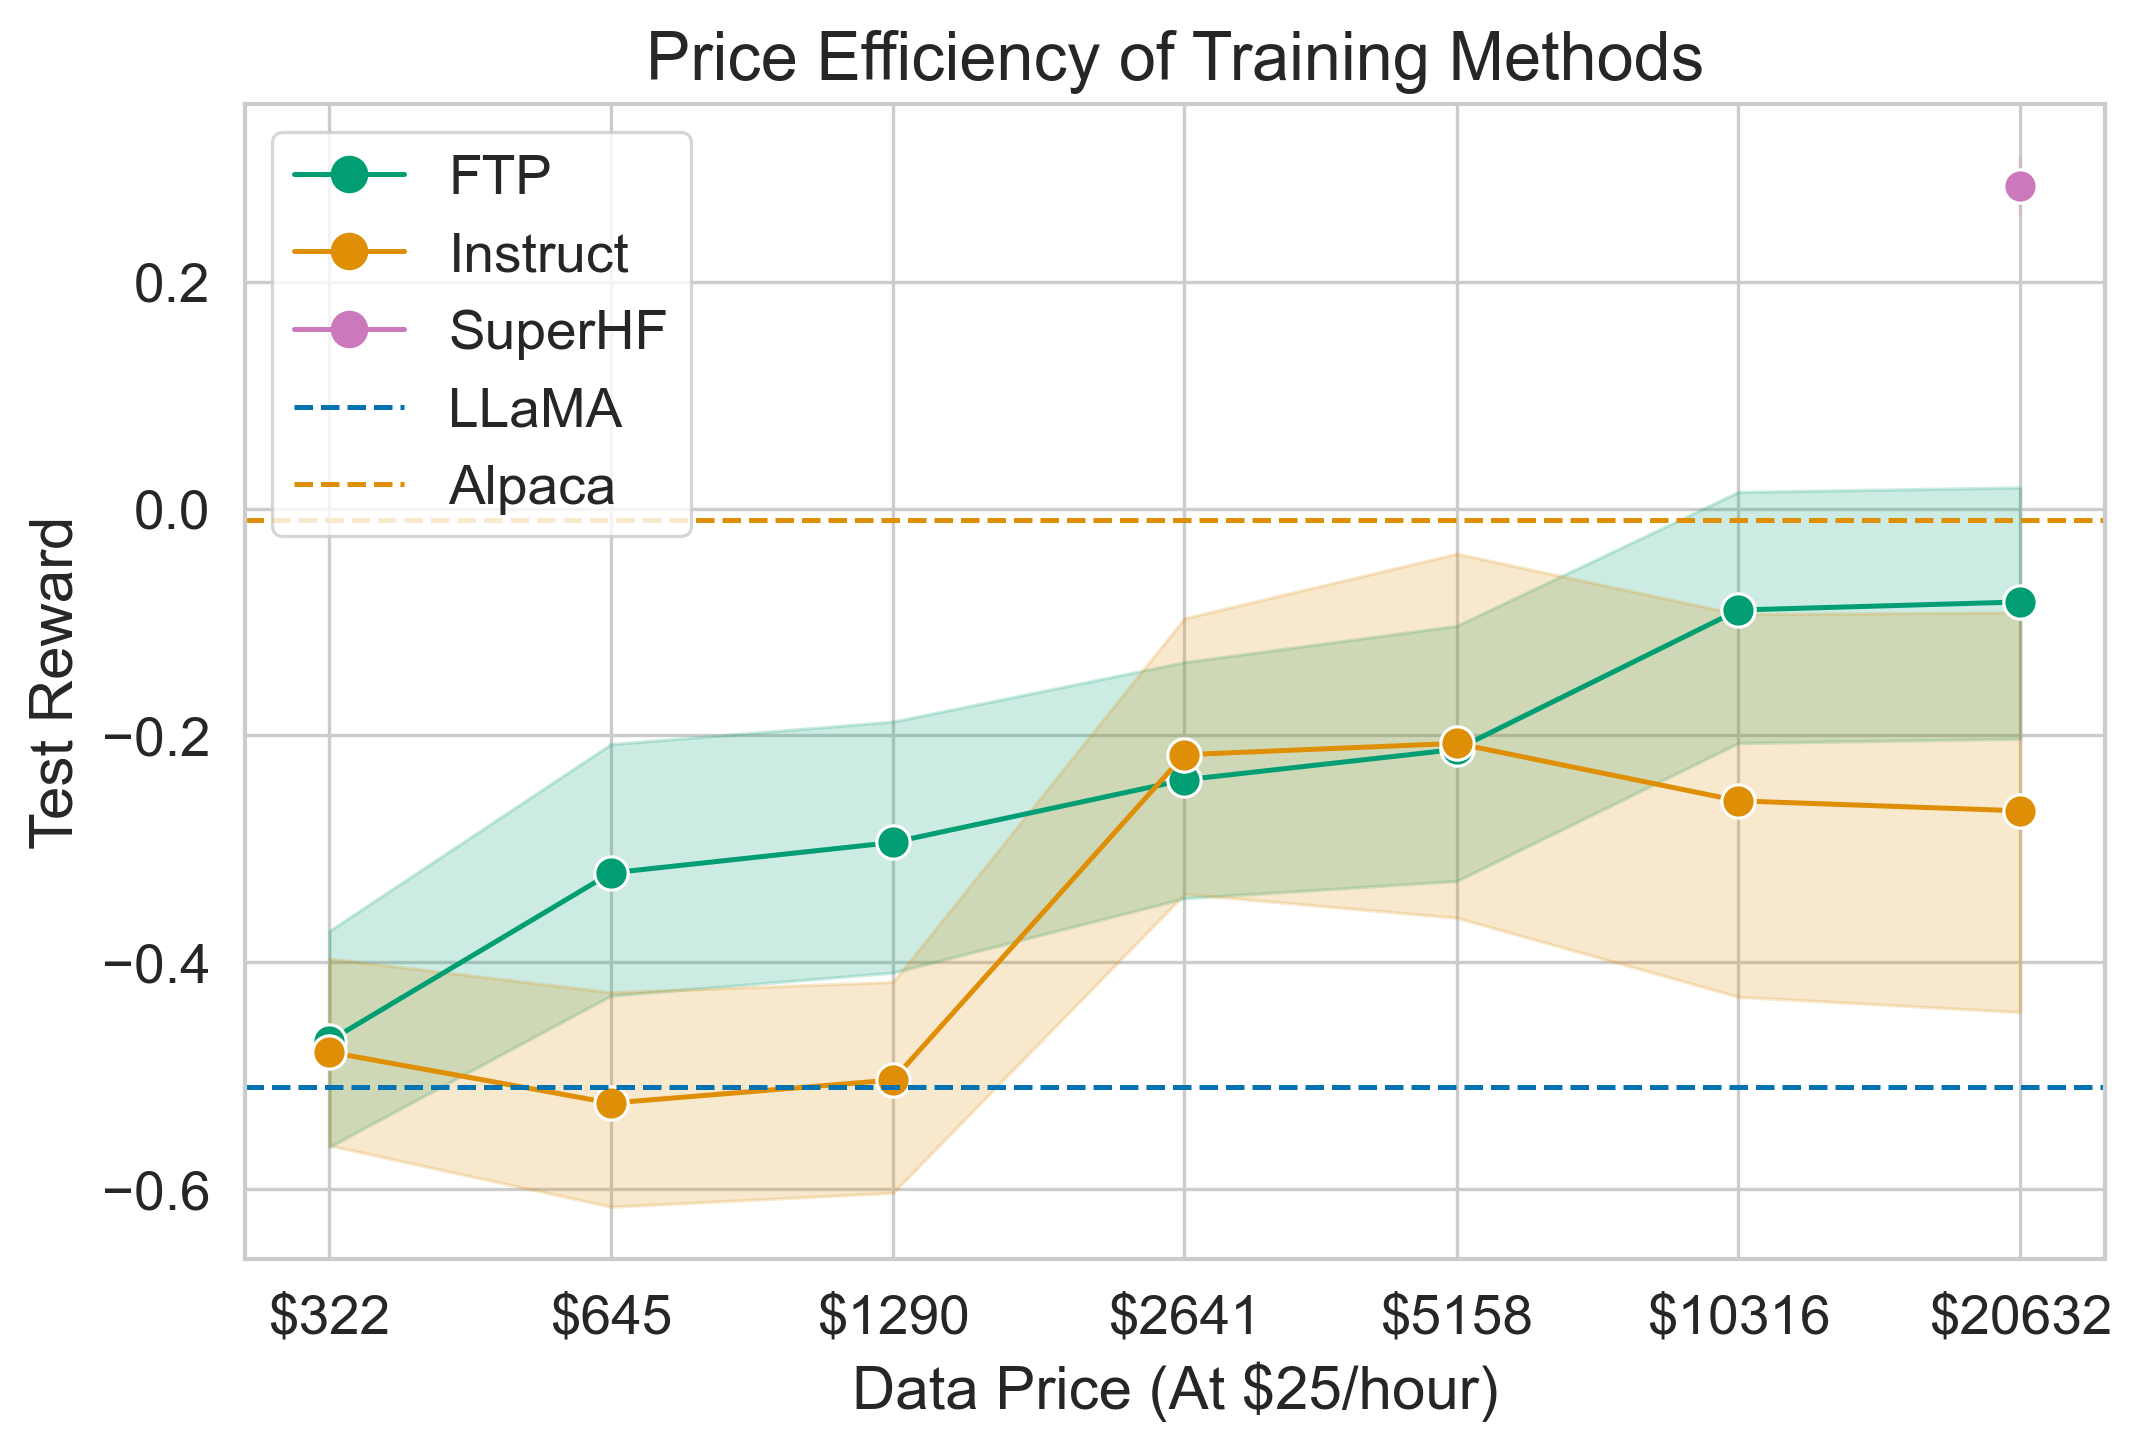
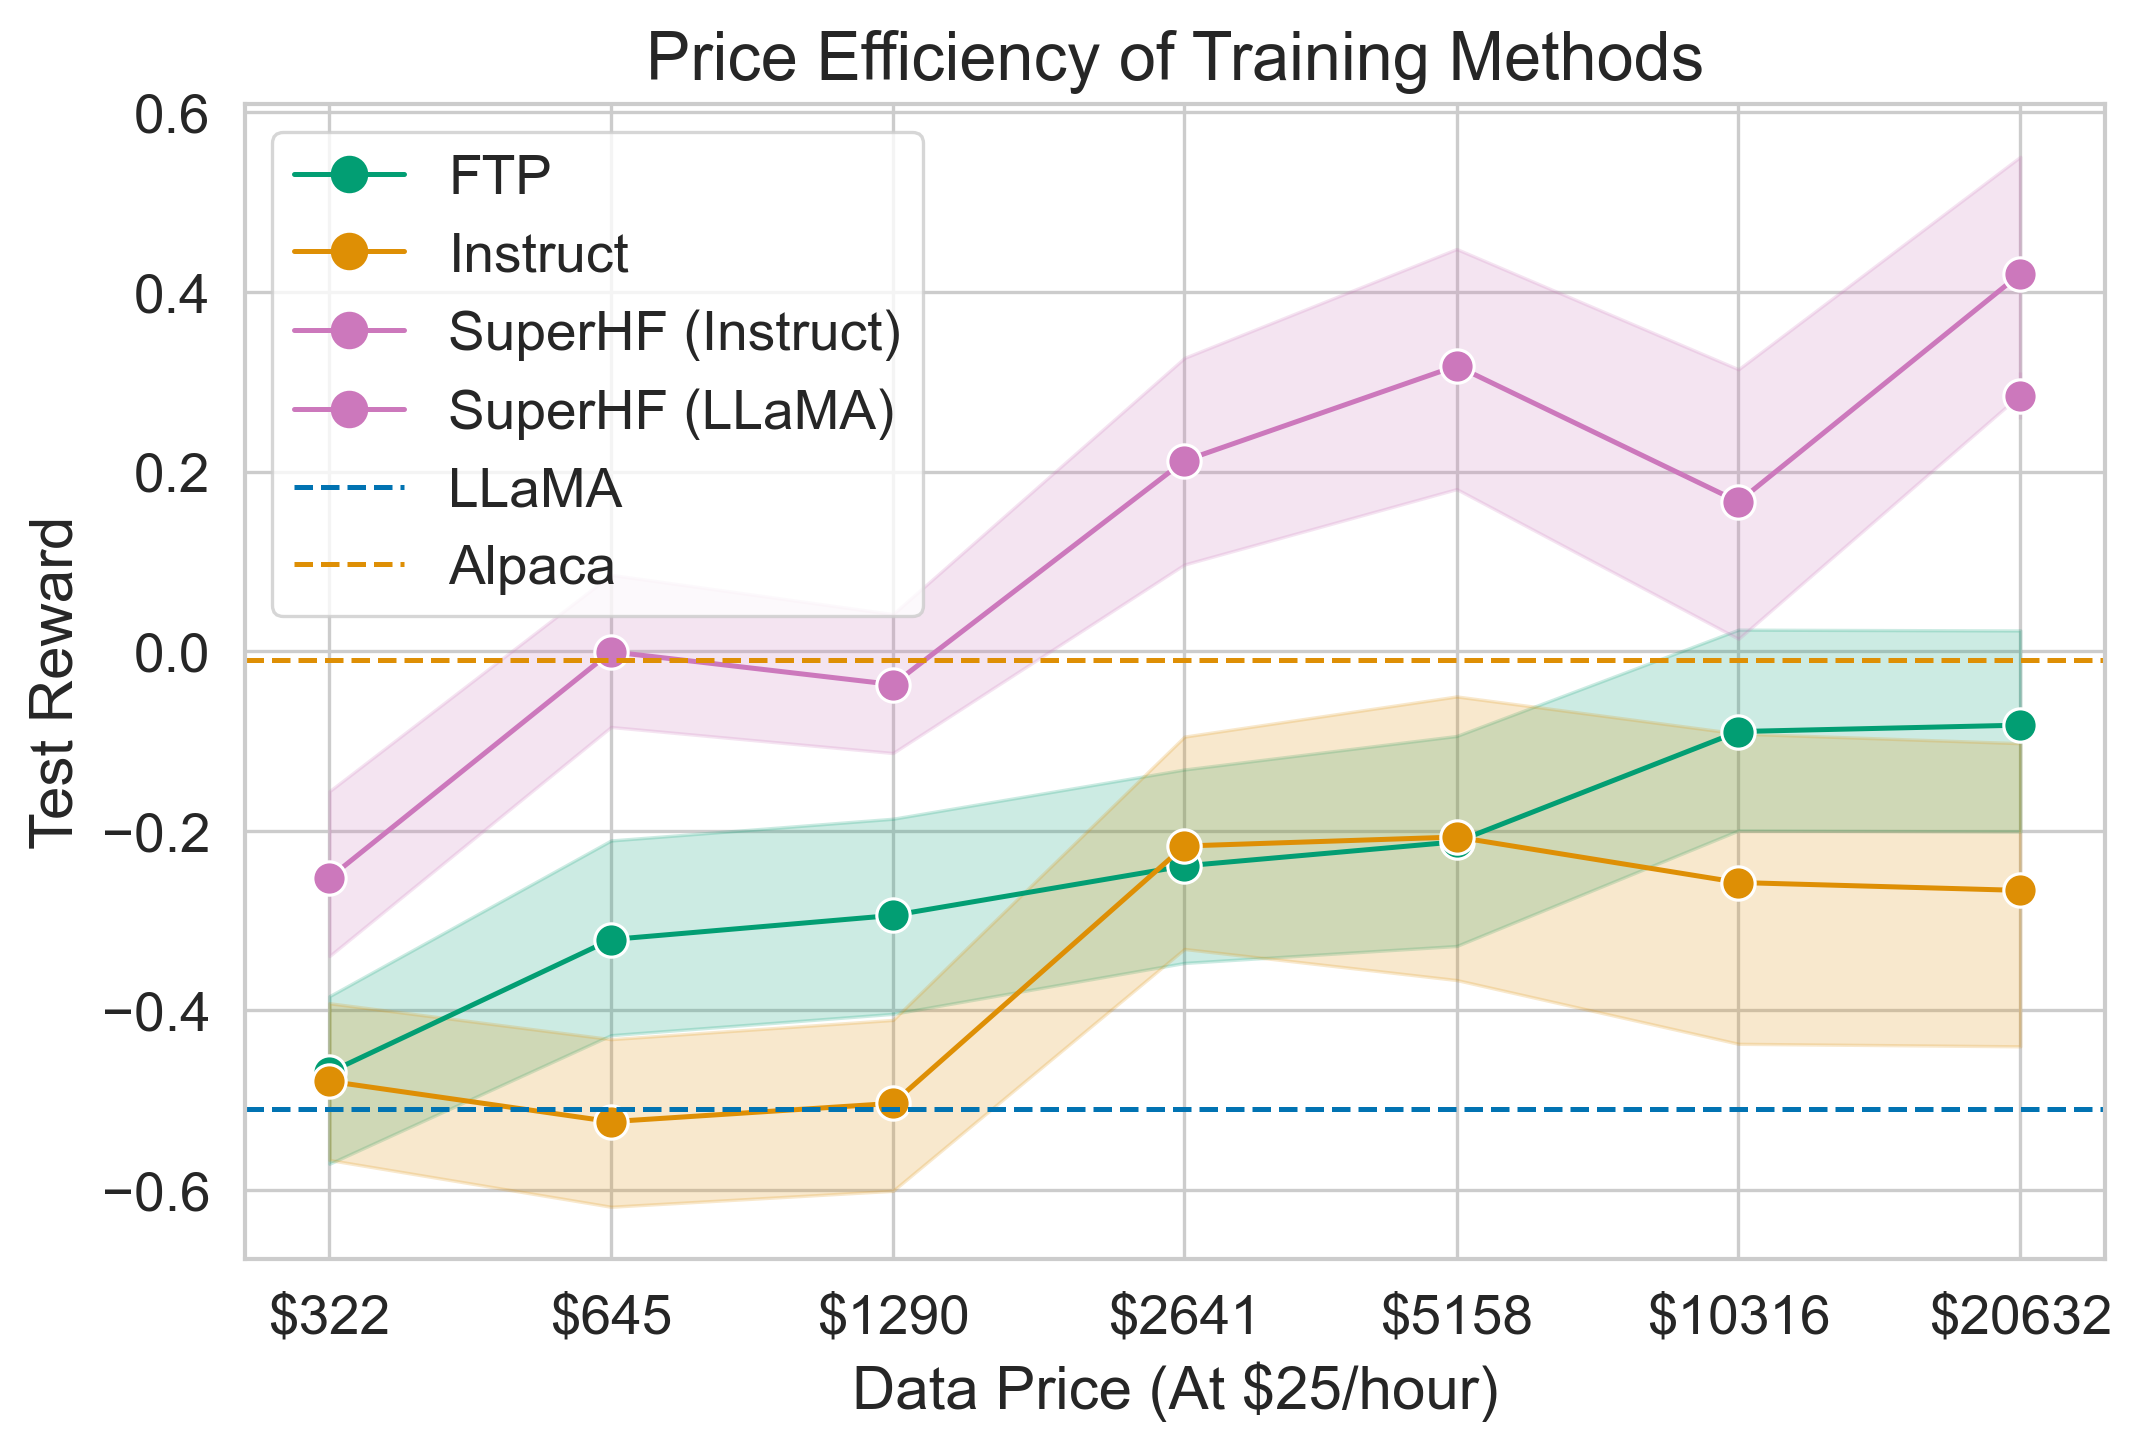
Add SuperHF to dollar costs

diff --git a/charts/dollar_costs.py b/charts/dollar_costs.py
@@ -35,7 +35,16 @@ INPUT_FILE_MAP = {
         "./experiments/evaluations/test_scores/llama-instruct-387.json",
         "./experiments/evaluations/test_scores/llama-instruct-194.json",
     ],
-    "SuperHF": ["./experiments/evaluations/test_scores/shf-llama-7b.json"],
+    "SuperHF (Instruct)": [
+        "./experiments/evaluations/test_scores/shf-v4-llama-instruct-12379.json",
+        "./experiments/evaluations/test_scores/shf-v4-llama-instruct-6190.json",
+        "./experiments/evaluations/test_scores/shf-v4-llama-instruct-3095.json",
+        "./experiments/evaluations/test_scores/shf-v4-llama-instruct-1585.json",
+        "./experiments/evaluations/test_scores/shf-v4-llama-instruct-774.json",
+        "./experiments/evaluations/test_scores/shf-v4-llama-instruct-387.json",
+        "./experiments/evaluations/test_scores/shf-v4-llama-instruct-194.json",
+    ],
+    "SuperHF (LLaMA)": ["./experiments/evaluations/test_scores/shf-llama-7b.json"],
 }
 
 
